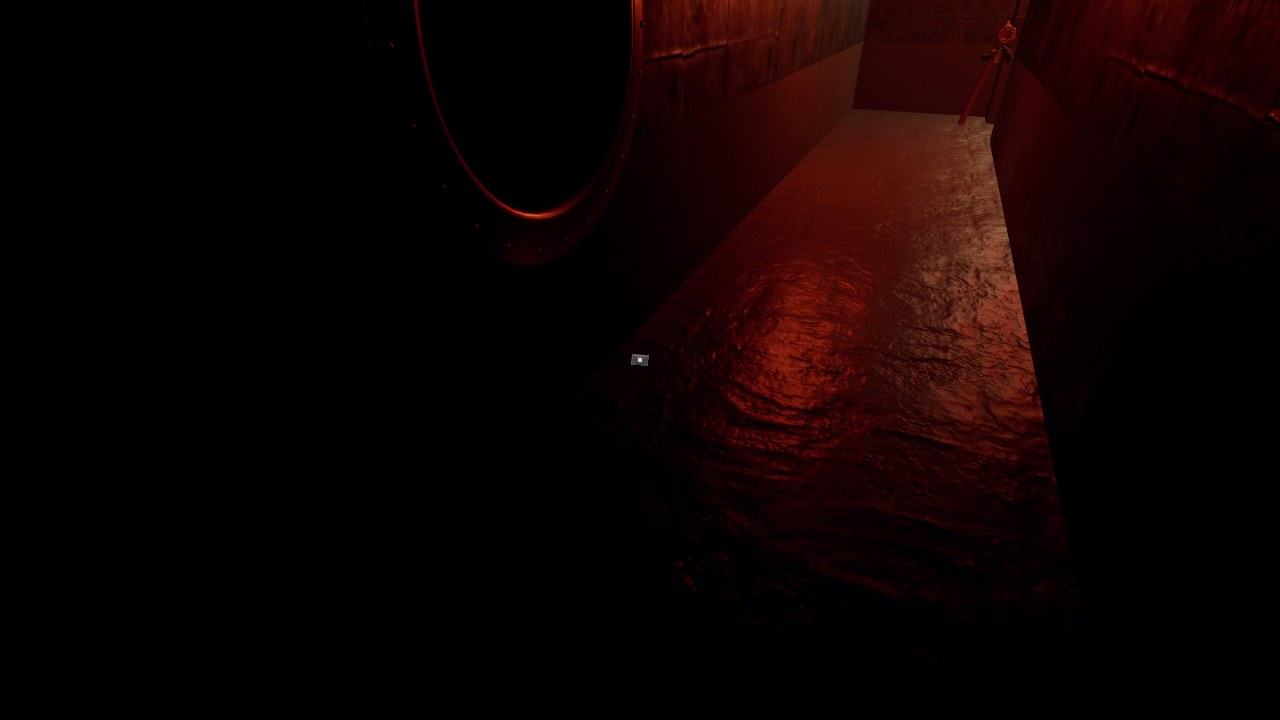
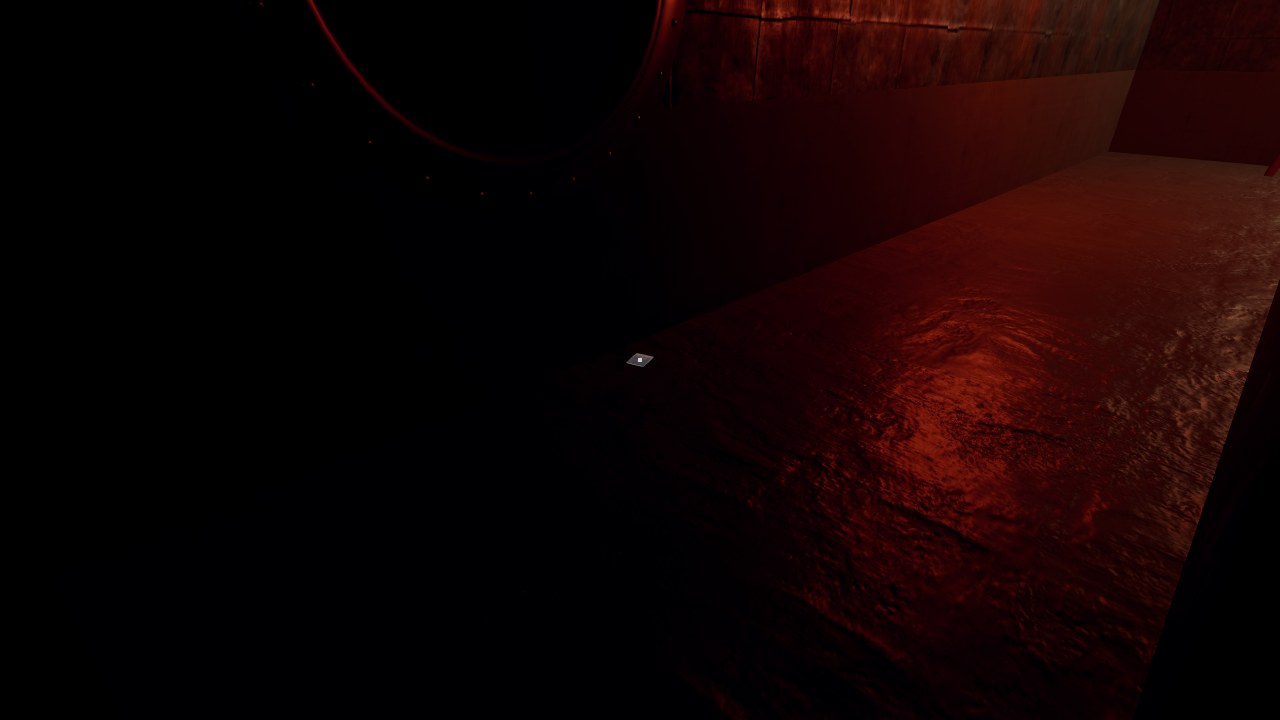
Polaroid nuove: scatti della P14 e della piscina a onde, P16 appoggiata anche col fiume caricato a gioco avviato, test di P12, P13, P15 e P16 [skip ci]
Claude-Session: https://claude.ai/code/session_01T7gXU9URJunXdQxrRAzoeN

diff --git a/docs/proposte/polaroid_nuove/LEGGIMI.md b/docs/proposte/polaroid_nuove/LEGGIMI.md
@@ -30,7 +30,21 @@ Non dicono come lei è diventata viva, né perché.
 
 ## Gli scatti dal motore
 
-Per ognuna c'è uno scatto nel suo posto, dagli occhi del giocatore, e uno da vicino. Sono in questa cartella (`p12_posto.jpg`, `p12_vicino.jpg` e così via) e li fa `godot/tests/scatti_polaroid_nuove.gd`. Le luci sono quelle del momento in cui ci si arriva, cioè il blackout con le luci rosse d'emergenza. La sala intera su llvmpipe non ci sta più in memoria: la P14 è scattata nella sala principale ridotta (`tests/scena_ridotta.gd`), senza gli ambienti che dagli acquari non si vedono.
+Per ognuna c'è uno scatto nel suo posto, dagli occhi del giocatore, e uno da vicino. Li fa `godot/tests/scatti_polaroid_nuove.gd`. Le luci sono quelle del momento in cui ci si arriva, cioè il blackout con le luci rosse d'emergenza. La sala intera su llvmpipe non ci sta più in memoria: la P14 è scattata nella sala principale ridotta (`tests/scena_ridotta.gd`, preset medio), senza gli interni, gli ambienti tecnici, la risalita, la torre degli scivoli esterna, l'area bimbi, i dettagli e la vasca di lei, con gli acquari pieni come al ritorno dal magazzino.
+
+| | Nel suo posto | Da vicino |
+|---|---|---|
+| P12 | ![](p12_posto.jpg) | ![](p12_vicino.jpg) |
+| P13 | ![](p13_posto.jpg) | ![](p13_vicino.jpg) |
+| P14 | ![](p14_posto.jpg) | ![](p14_vicino.jpg) |
+| P15 | ![](p15_posto.jpg) | ![](p15_vicino.jpg) |
+| P16 | ![](p16_posto.jpg) | ![](p16_vicino.jpg) |
+
+## Controlli
+
+- Posizionamento in locale (`tests/controllo_posizionamento.gd`): sala principale, con la risalita e gli acquari in tutti gli stati, e sala della torre. 0 casi nuovi e 0 da correggere.
+- Test: `test_sala` (10 Polaroid nella sala, appoggiate, e il totale), `test_risalita_tardi` (14 nel totale all'avvio), `test_risalita` (P13, P15 e P16 ci sono e sono appoggiate), `test_torre` (P12 c'è ed è appoggiata).
+- Il percorso delle partenze del menu di prova (`assets/prova/*.json`) non è rifatto: chi parte dalla torre o dal tunnel non ha le Polaroid nuove fra quelle raccolte. Si rifà con `tests/genera_partenze_prova.gd` quando l'utente approva.
 
 ## Da decidere con l'utente
 
